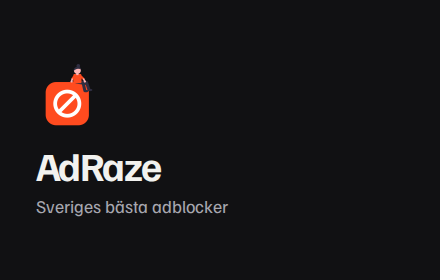
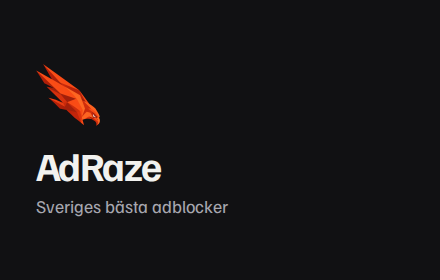
Falken som tilläggets ikon (+ butiksbilder), Google-knappen utan FedCM

Changed region(s): [[0.0886, 0.2286, 0.2364, 0.4571]]

diff --git a/site/app-google.js b/site/app-google.js
@@ -18,6 +18,8 @@ async function post(sokvag, kropp) {
   if (!window.google) return;
   google.accounts.id.initialize({
     client_id: clientId,
+    use_fedcm_for_button: false,   // Electron saknar FedCM → vanlig popup
+    use_fedcm_for_prompt: false,
     callback: async ({ credential }) => {
       visa('Loggar in…', true);
       try {
